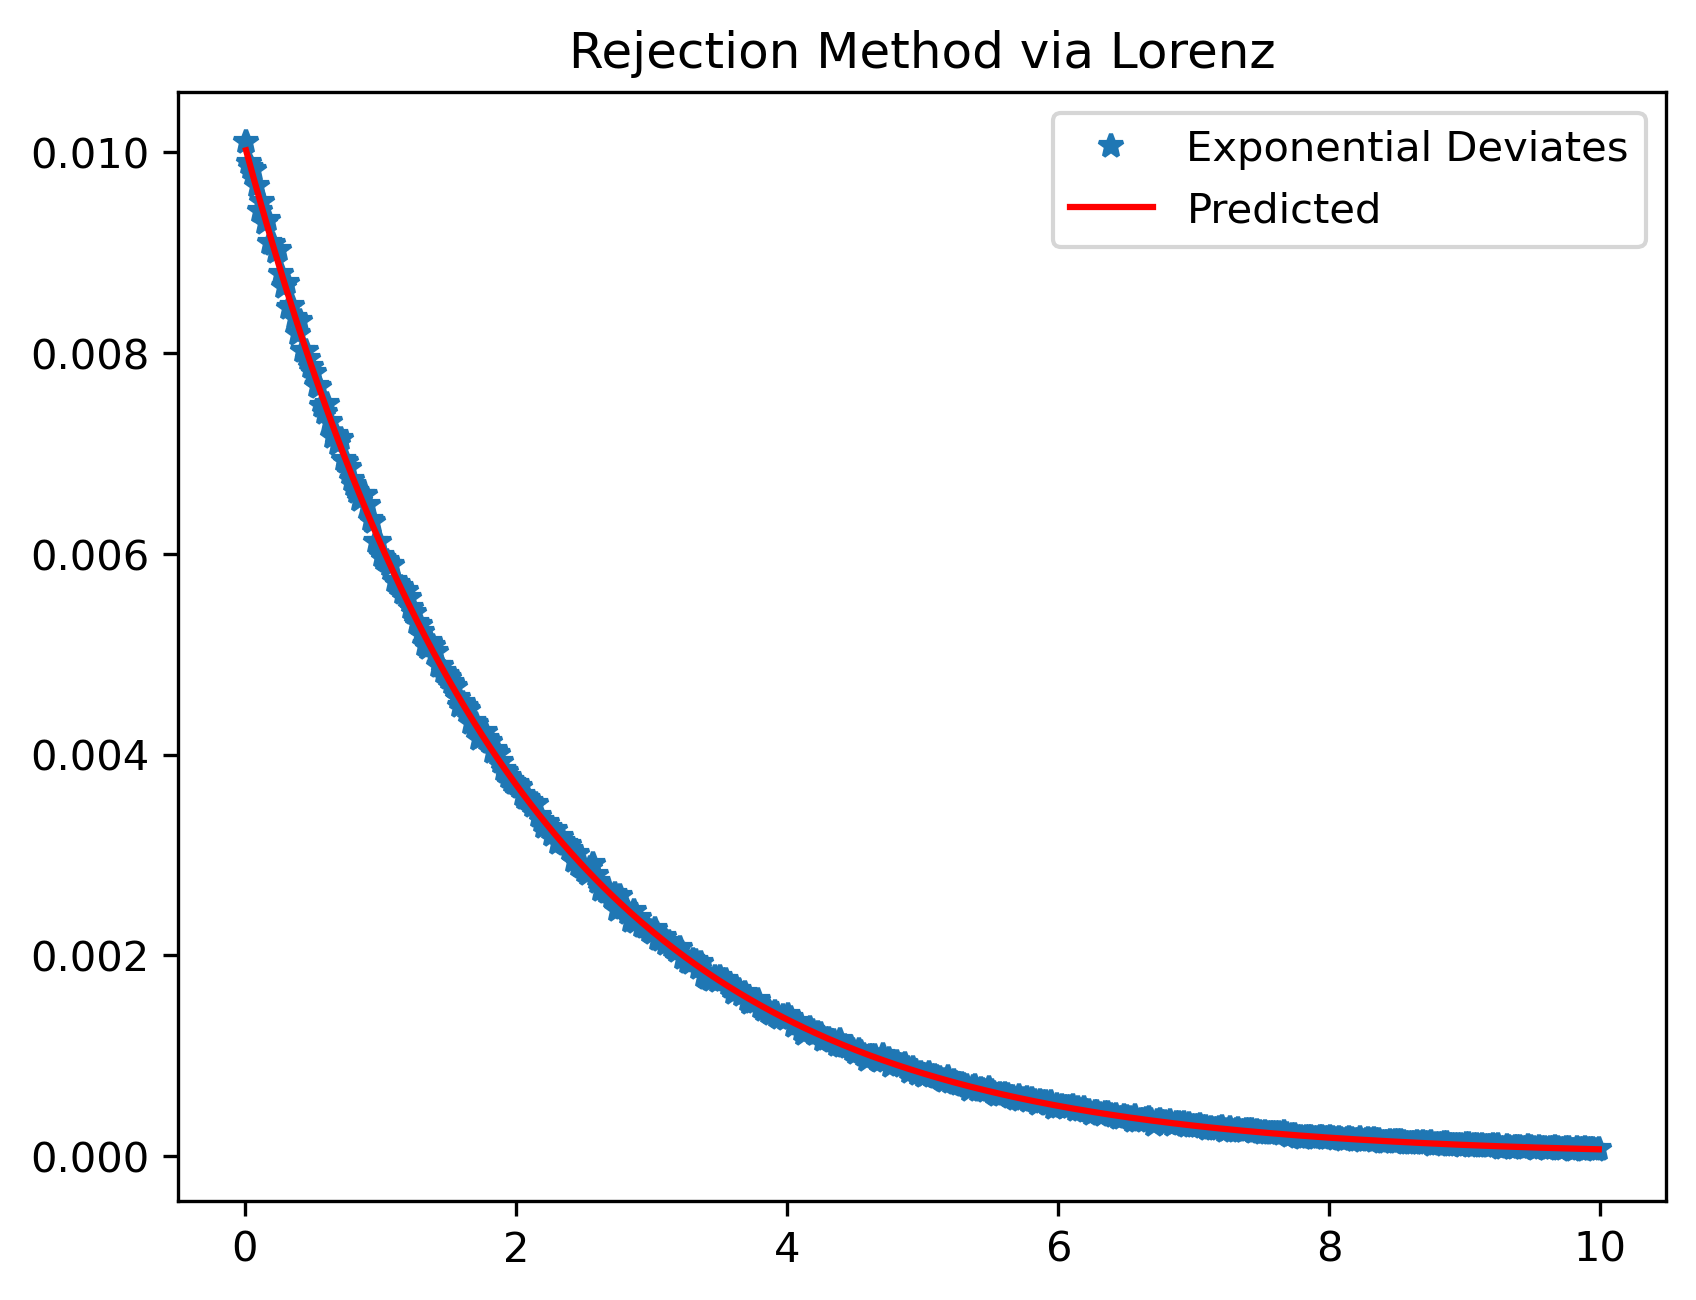
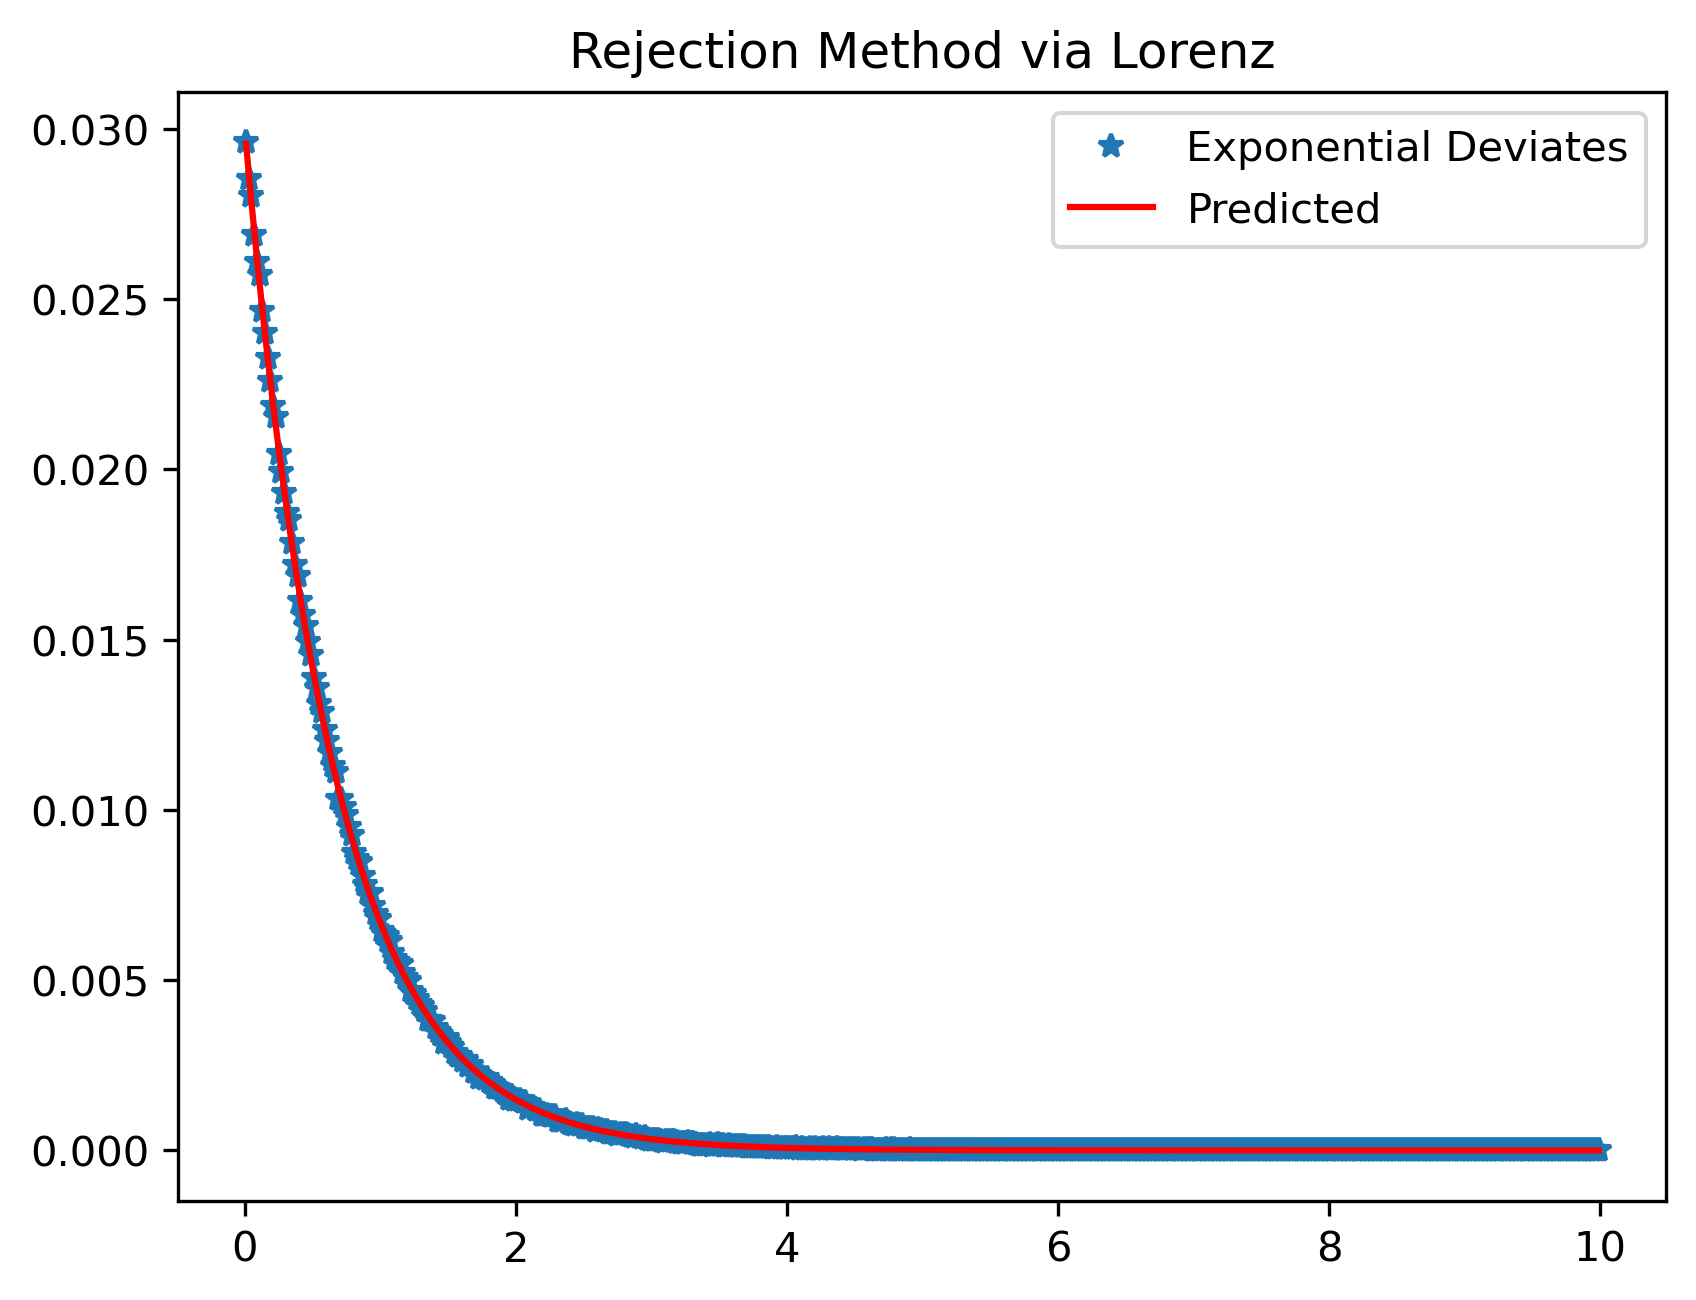
88

diff --git a/problem_sets/ps7/ps7_2.py b/problem_sets/ps7/ps7_2.py
@@ -1,21 +1,21 @@
 import numpy as np
 import matplotlib.pyplot as plt
 
-alpha = 0.5
+alpha = 1.5
 
 bins=np.linspace(0,10,501)
 cents=0.5*(bins[1:]+bins[:-1])
 
 mylor=1/(1+cents**2)*3
 myexp = np.exp(-alpha*cents)
-mygau = np.exp(-alpha*cents**2)
+mygau = np.exp(-alpha*cents**2)*3
 mypow = cents**(-alpha)
 
 
 plt.plot(cents, myexp, label = 'Exponential')
 plt.plot(cents, mylor, label = 'Lorenztian')
 plt.plot(cents, mygau, label = 'Gaussian')
-plt.plot(cents, mypow, label = 'Power')
+plt.plot(cents - 1, mypow, label = 'Power')
 plt.ylim(0, 4)
 plt.title('Bounding Distribution')
 plt.legend()
@@ -37,10 +37,28 @@ t_use=t[accept]
 aa,bb=np.histogram(t_use,bins)
 aa = aa/aa.sum()
 exp = myexp/myexp.sum()
-plt.plot(cents, aa, '*', label = 'Exponential Deviates')
-plt.plot(cents, exp, 'r', label = 'Predicted')
-plt.title('Rejection Method via Lorenz')
-plt.legend()
-plt.savefig('Reject_Lor.png',dpi = 300, bbox_inches = 'tight')
-plt.show()
+# plt.plot(cents, aa, '*', label = 'Exponential Deviates')
+# plt.plot(cents, exp, 'r', label = 'Predicted')
+# plt.title('Rejection Method via Lorenz')
+# plt.legend()
+# plt.savefig('Reject_Lor.png',dpi = 300, bbox_inches = 'tight')
+# plt.show()
 
+# rejection method via power laws
+
+q=np.random.rand(n)
+t_pow=(q)**(1/(1-alpha))
+y_pow = t_pow**(-alpha)*np.random.rand(n)
+
+accept_pow=y_pow<np.exp(-alpha*t_pow)
+t_use_p=t_pow[accept_pow]
+print(t_use_p)
+
+aa_pow,bb=np.histogram(t_use_p,bins + 1)
+aa_pow = aa_pow/aa_pow.sum()
+plt.plot(cents , aa_pow, '*', label = 'Exponential Deviates')
+plt.plot(cents , exp, 'r', label = 'Predicted')
+plt.title('Rejection Method via Power Law')
+plt.legend()
+plt.savefig('Reject_Pow.png',dpi = 300, bbox_inches = 'tight')
+plt.show()
